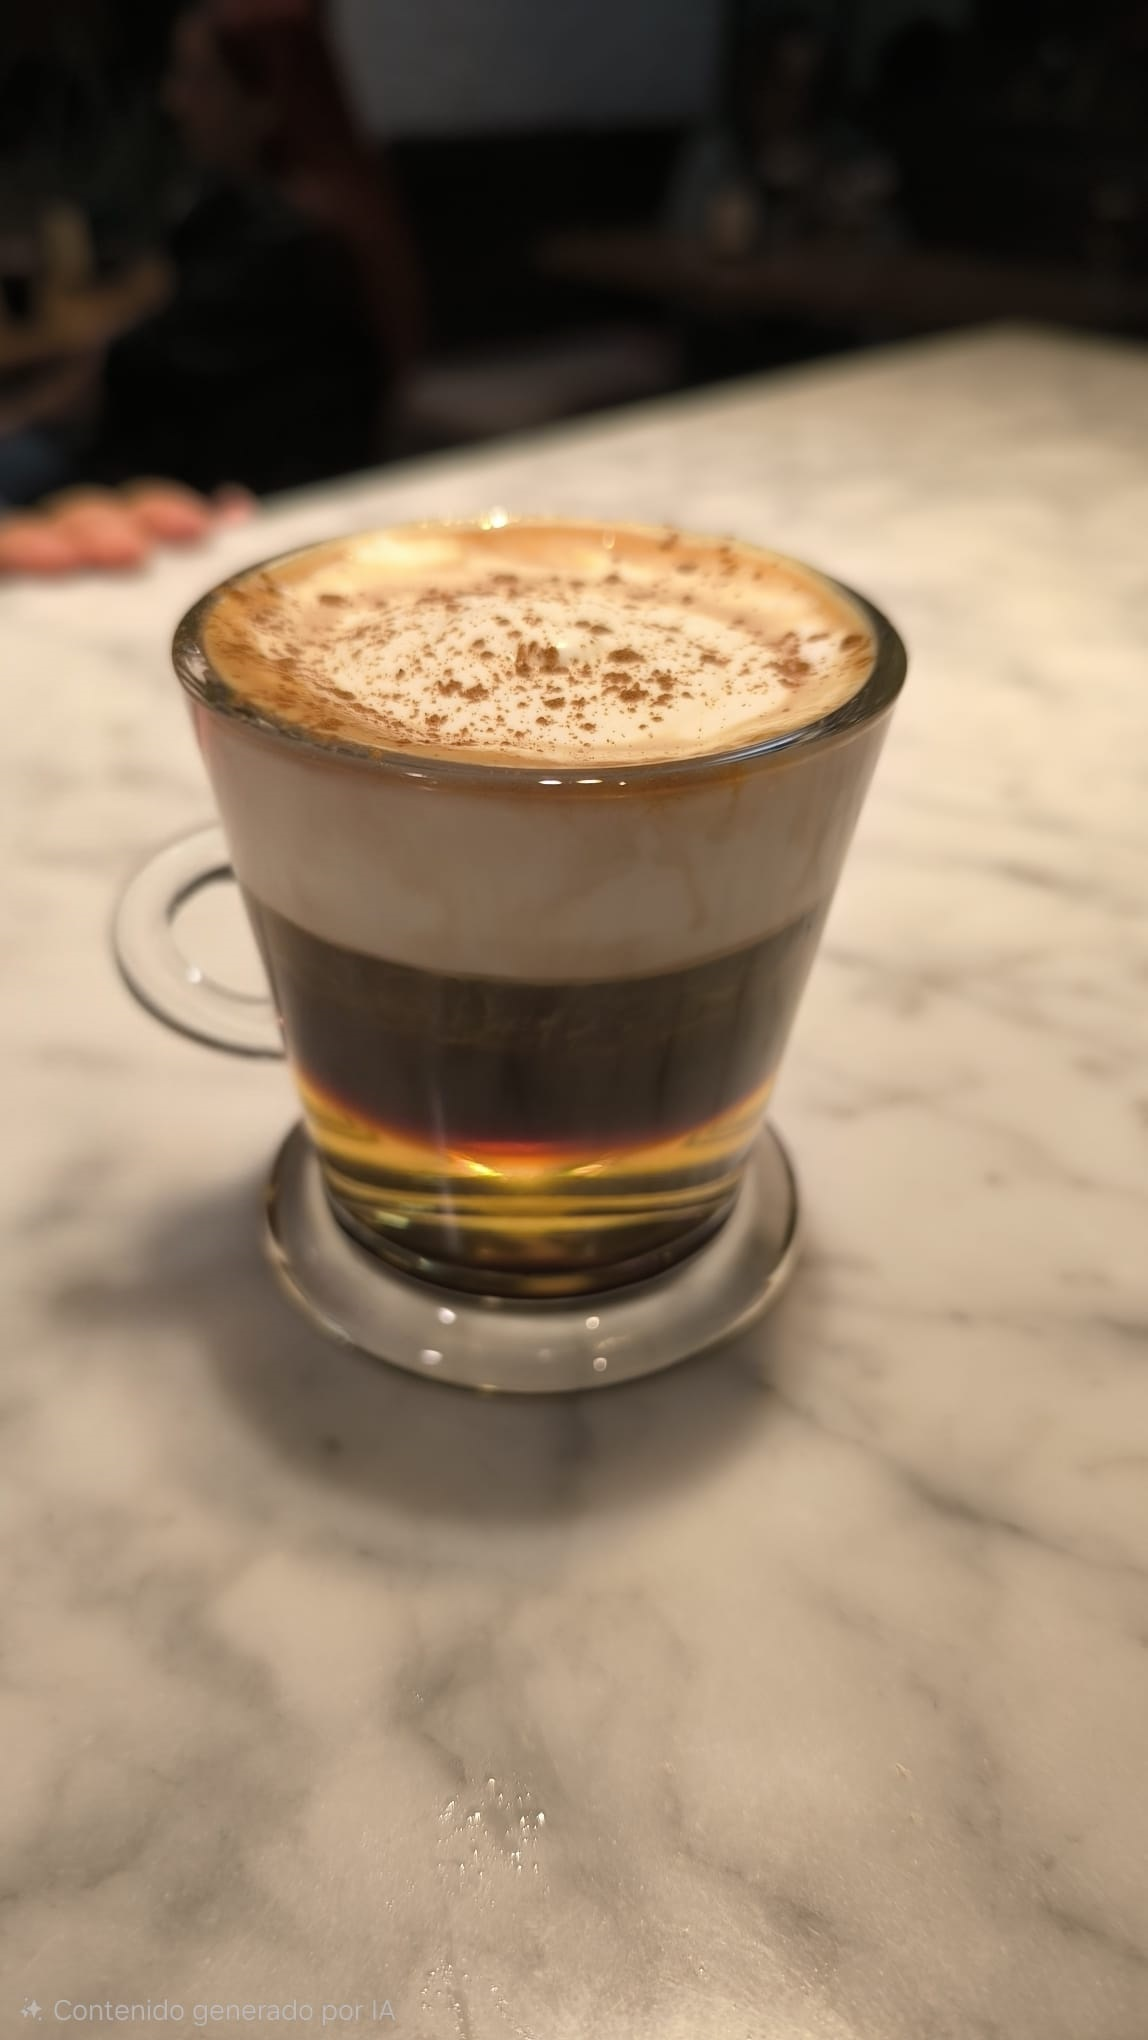
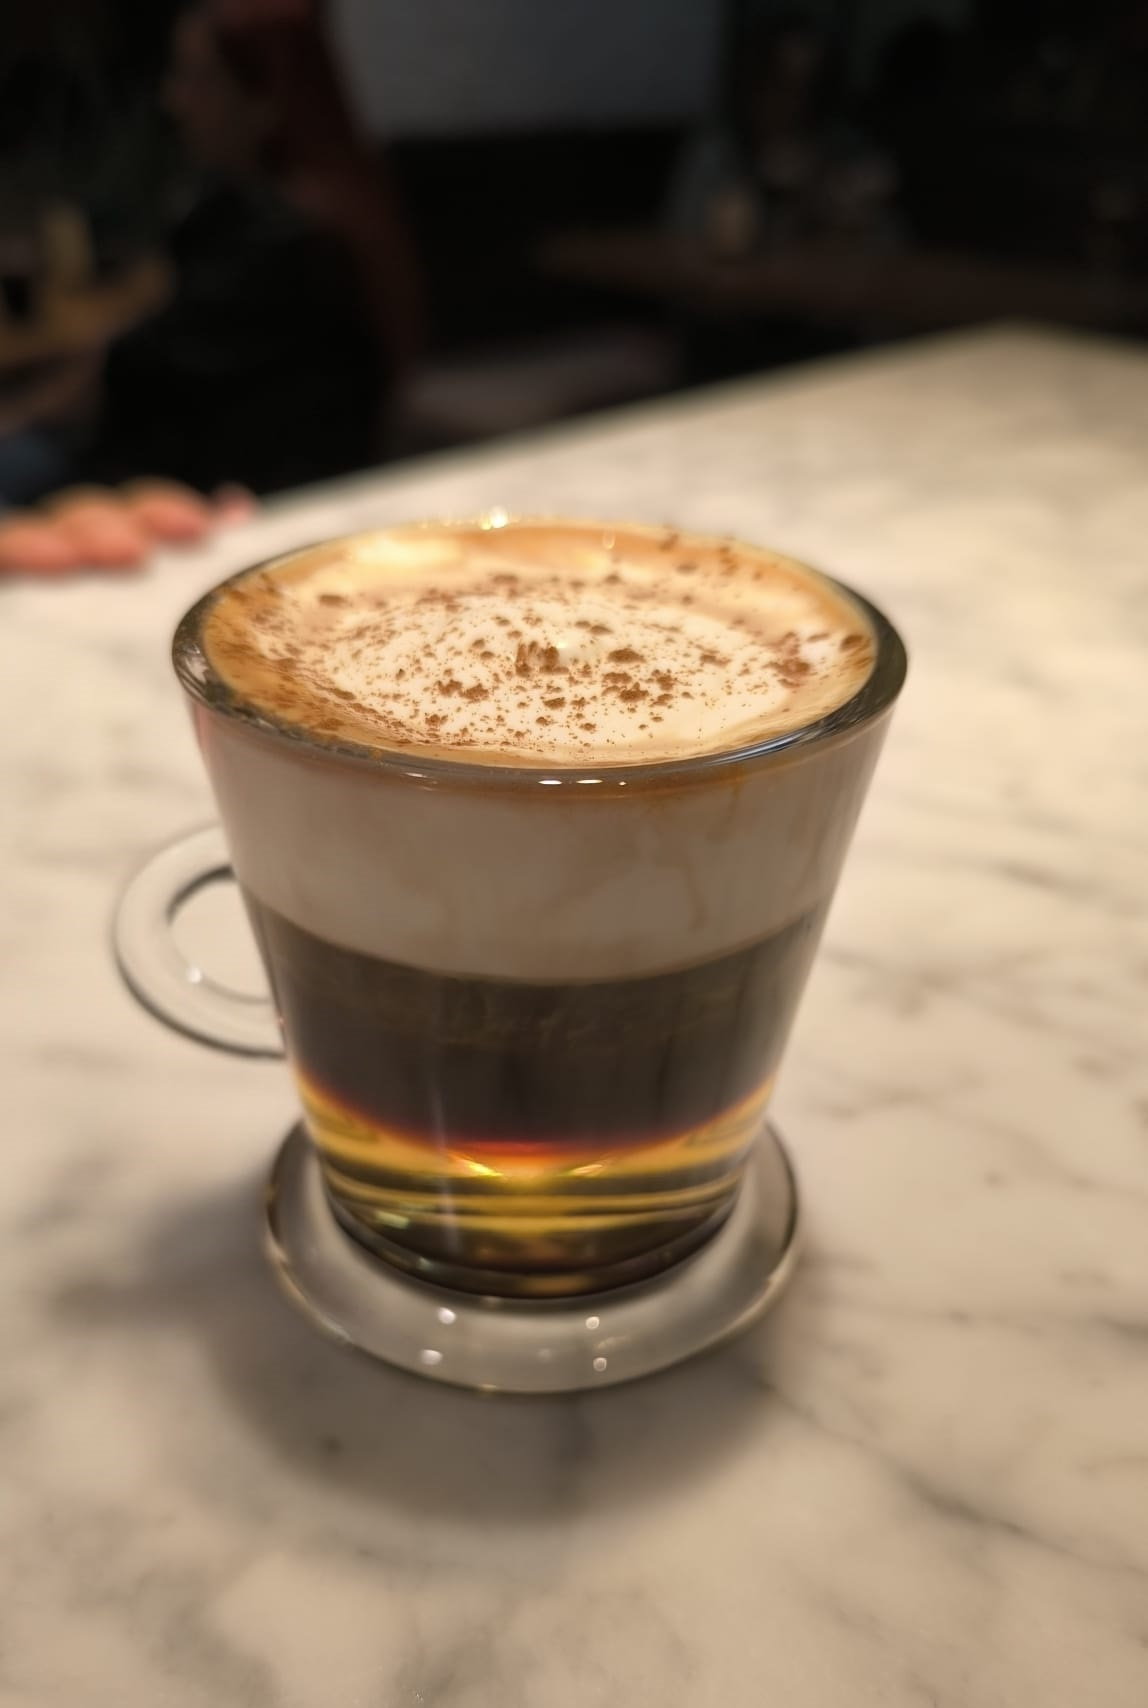
foto que se abre

diff --git a/Frontend-Bar/src/components/PlatosCarta.jsx b/Frontend-Bar/src/components/PlatosCarta.jsx
@@ -1,13 +1,16 @@
 // Componente para mostrar cada plato del menú con su imagen, nombre, precio e ingredientes
 export default function PlatosCarta({ plato }) {
+  const [abierto, setAbierto] = useState(false);
   return (
+    <>
     <div className="bg-white rounded-2xl overflow-hidden shadow-sm hover:shadow-xl transition duration-300 group flex flex-col">
 
       {/* IMAGEN */}
       <div className="relative overflow-hidden">
         <img src={plato.imagen || "/img/sin-foto.png"}
           alt={plato.nombre}
-          className="w-full h-52 object-cover group-hover:scale-105 transition duration-300" />
+          className="w-full h-52 object-cover group-hover:scale-105 transition duration-300" 
+          onClick={() => setAbierto(true)}/>
 
 
         <span className="absolute top-4 right-4 bg-black/80 text-white text-sm px-3 py-1 rounded-full">
@@ -32,5 +35,19 @@ export default function PlatosCarta({ plato }) {
         </div>
       </div>
     </div>
+    {/* MODAL: clic en cualquier parte para cerrar */}
+      {abierto && (
+        <div
+          className="fixed inset-0 bg-black/80 z-50 flex items-center justify-center cursor-pointer"
+          onClick={() => setAbierto(false)}
+        >
+          <img
+            src={plato.imagen || "/img/sin-foto.png"}
+            alt={plato.nombre}
+            className="w-[500px] max-w-[90vw] max-h-[80vh] object-contain rounded-lg"
+          />
+        </div>
+      )}
+      </>
   );
 }

diff --git a/Backend-Bar/index.js b/Backend-Bar/index.js
@@ -67,9 +67,9 @@ db.serialize(() => {
     { nombre: "Affogato Frangelico", categoria: "Cafés especiales", precio: 6.50, ingredientes: "helado vainilla, licor Frangelico, café, chocolate", imagen: "/img/afogato-fran.jpg" },
     { nombre: "Affogato Tiramisú", categoria: "Cafés especiales", precio: 6.50, ingredientes: "helado mascarpone, Amaretto, café, cacao", imagen: "/img/afogato-tiramisu.jpg" },
     { nombre: "Café irlandés", categoria: "Cafés especiales", precio: 5.50, ingredientes: "café, whisky, nata", imagen: "/img/irlandesito.jpg" },
-    { nombre: "Café jamaicano", categoria: "Cafés especiales", precio: 6.00, ingredientes: "café, ron, nata", imagen: "/img/jamaicano.jpg" },
+    { nombre: "Café jamaicano", categoria: "Cafés especiales", precio: 6.00, ingredientes: "café, ron, nata", imagen: "" },
     { nombre: "Café escocés", categoria: "Cafés especiales", precio: 6.50, ingredientes: "café, whisky escocés, nata", imagen: "/img/escoces.jpg" },
-    { nombre: "Café caribeño", categoria: "Cafés especiales", precio: 6.50, ingredientes: "café, ron, licor", imagen: "/img/caribeno.jpg" }
+    { nombre: "Café caribeño", categoria: "Cafés especiales", precio: 6.50, ingredientes: "café, ron, licor", imagen: "" }
 
   ];
 

diff --git a/Frontend-Bar/pages/menu.html b/Frontend-Bar/pages/menu.html
@@ -13,7 +13,7 @@
 
   <!-- Background imagen -->
   <div class="fixed inset-0 -z-10">
-    <img src="../img/fondo-menu2.jpg" class="w-full h-full object-cover scale-105" alt="background">
+    <img src="../img/fondo-menu2.jpg" class="w-full h-full object-cover" alt="background" style="transform: translateZ(0);">
   </div>
 
   <!-- Dark overlay -->
